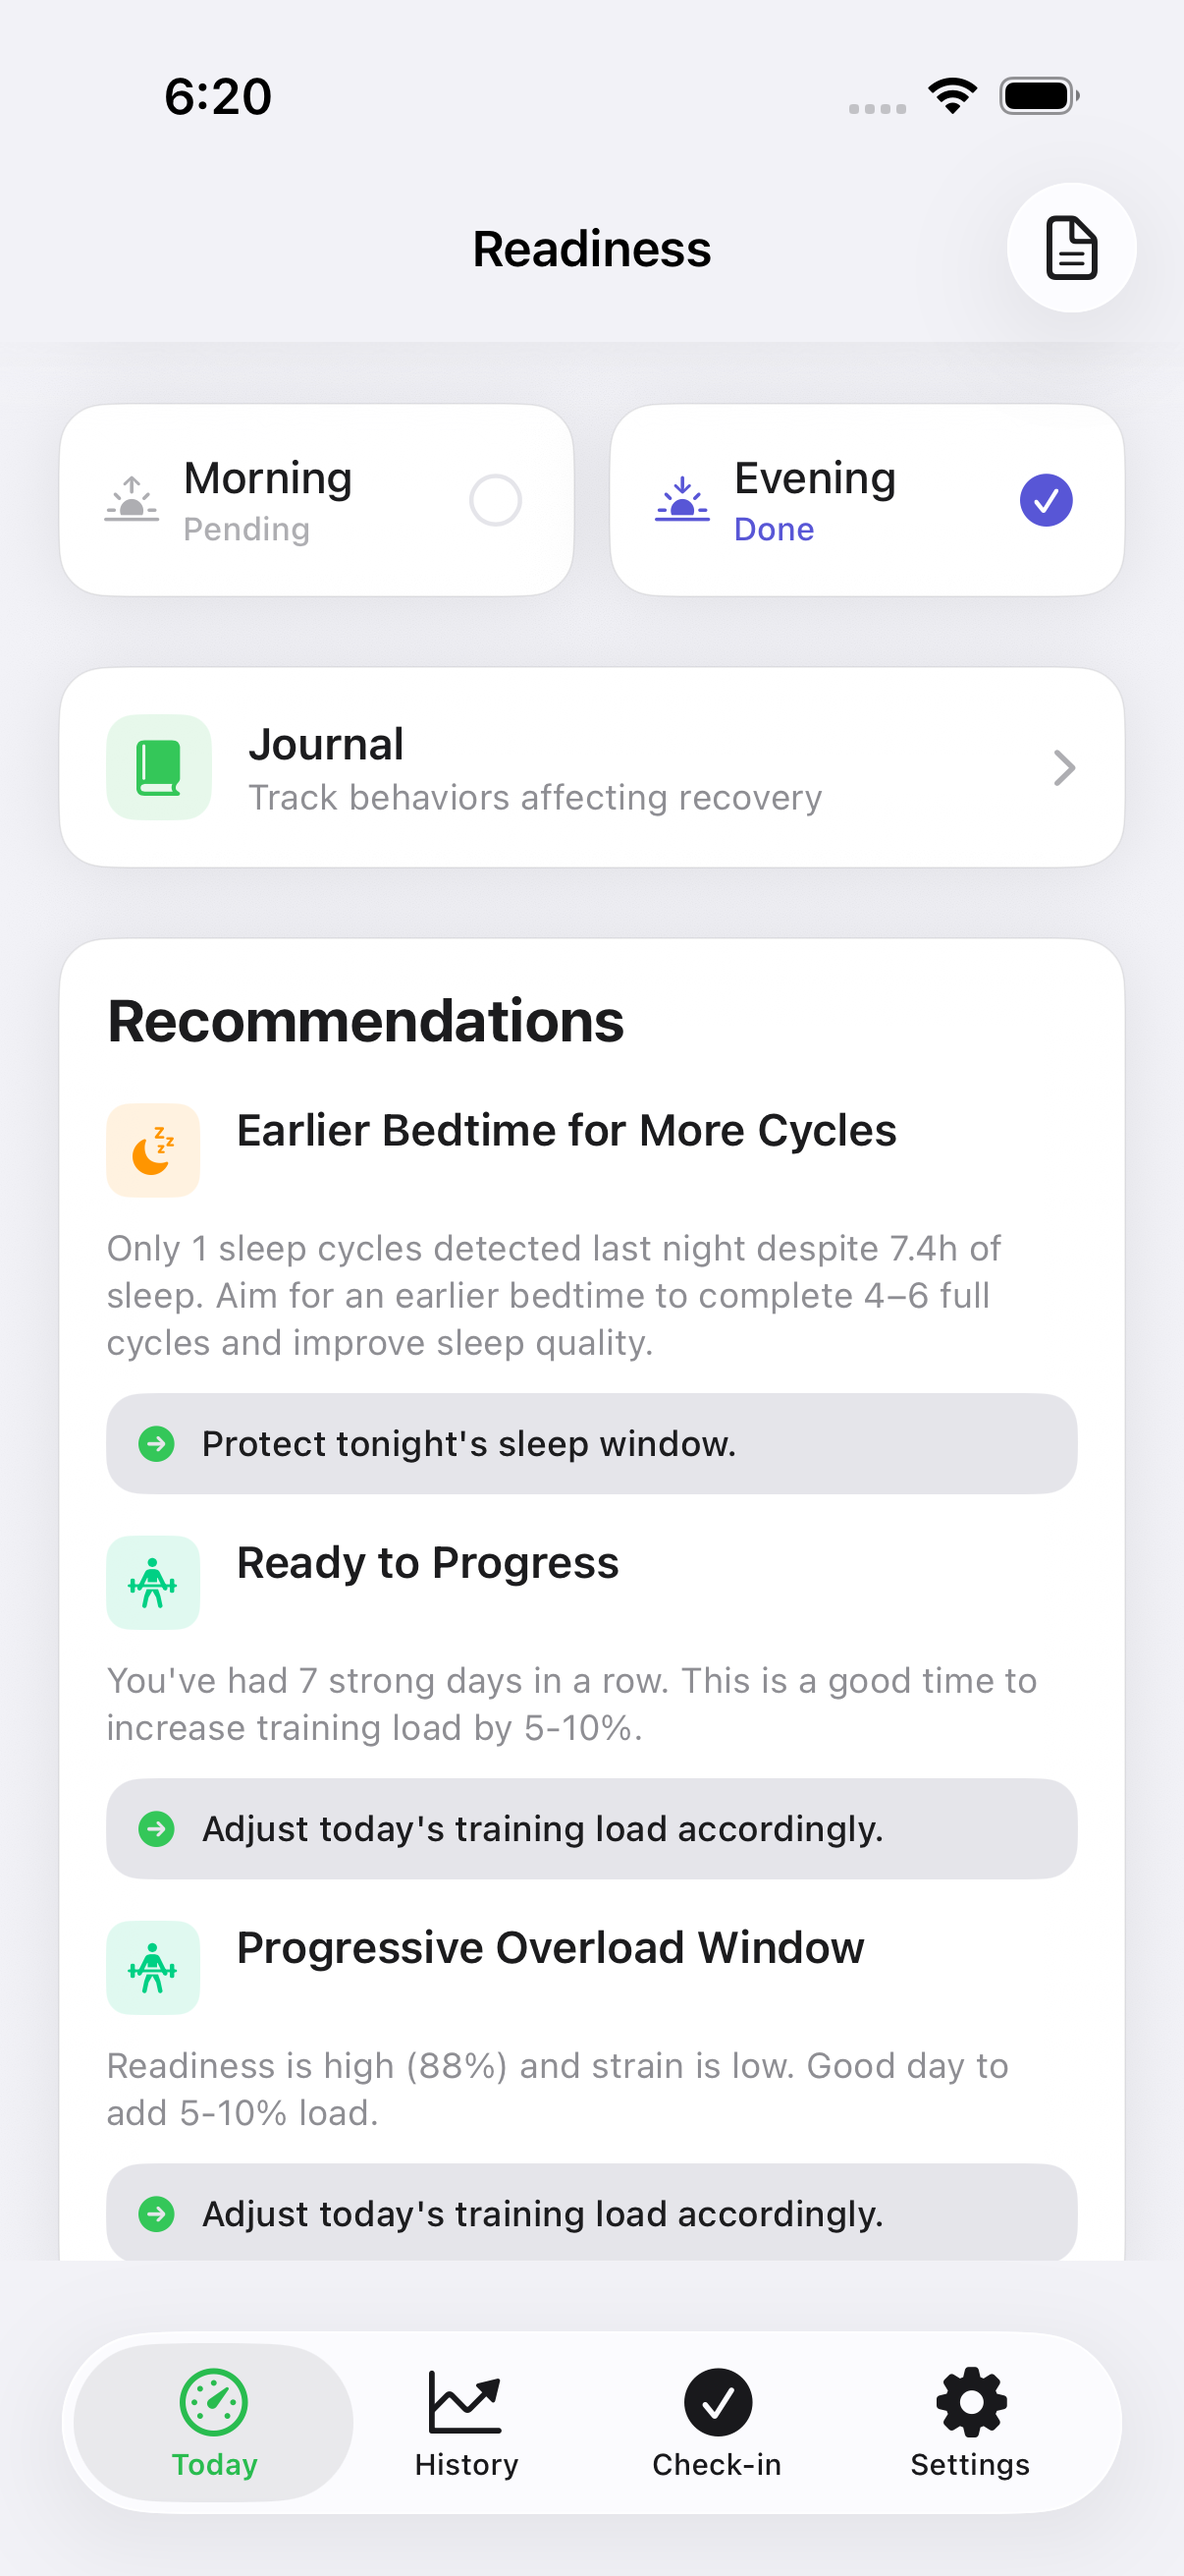
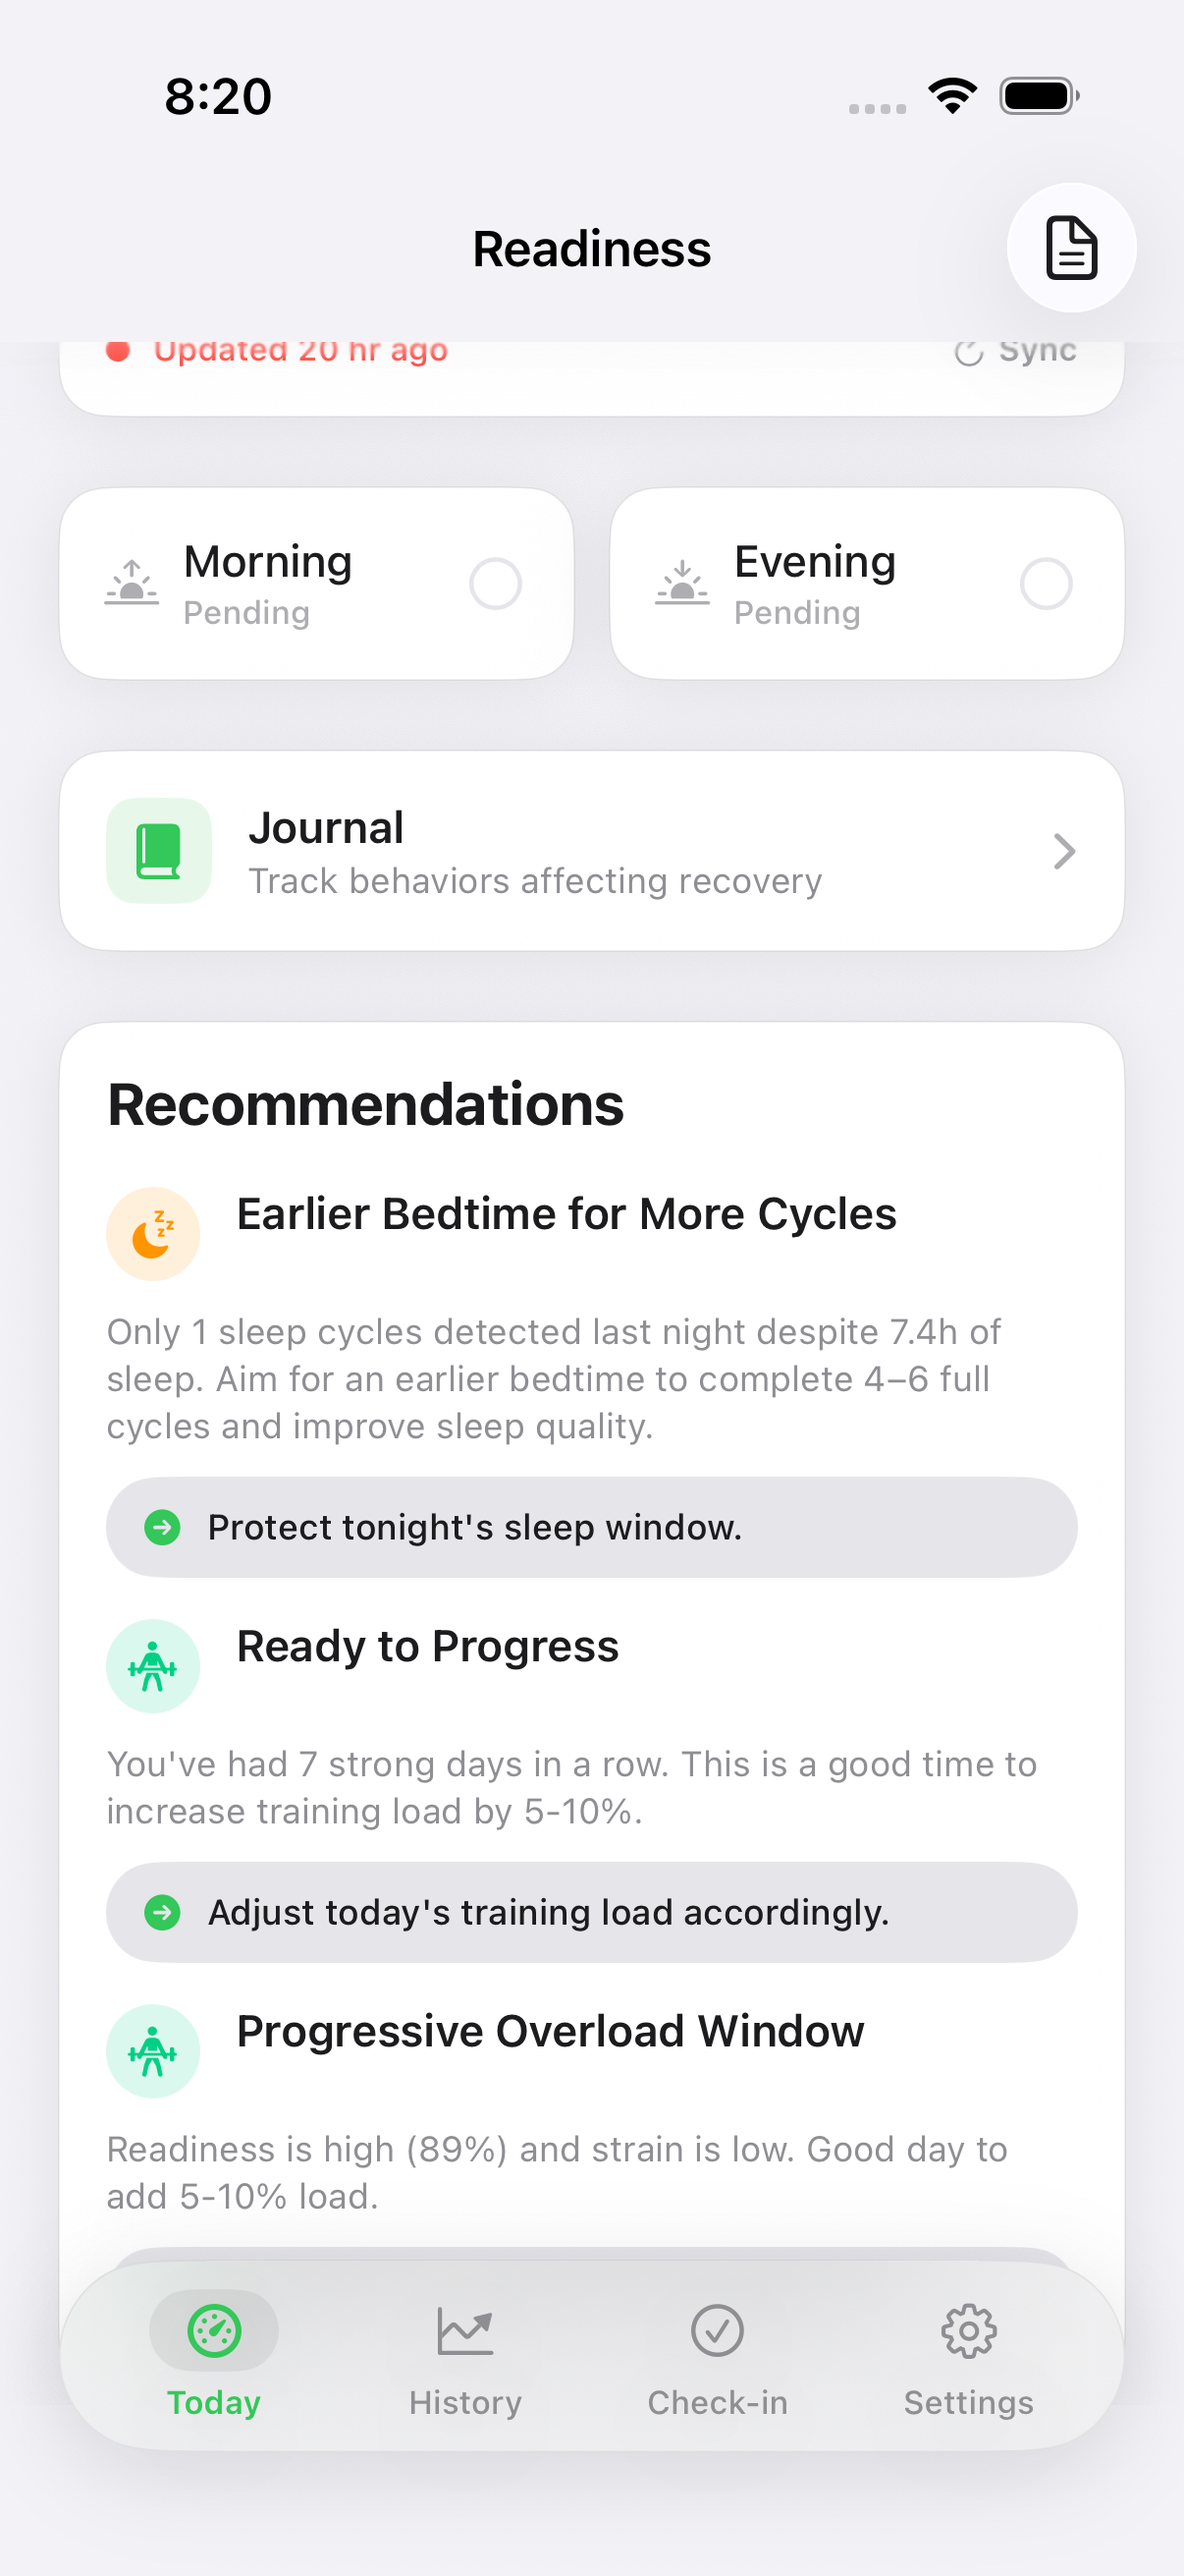
feat(today): Apple Fitness recommendation cards (Honest #59) (#77)

diff --git a/ReadinessTracker/Views/DashboardView.swift b/ReadinessTracker/Views/DashboardView.swift
@@ -354,7 +354,7 @@ struct DashboardView: View {
 
     // MARK: - Recommendations Section
     private func recommendationsSection(scores: DualReadinessScores) -> some View {
-        // WHOOP-style actionable cards: training rules first, coaching fill to 1–3.
+        // Apple Fitness–style actionable cards: training rules first, coaching fill to 1–3.
         let cards = AIRecommendationEngine.shared.morningActionableCards(for: selectedSource, limit: 3)
 
         return Group {
@@ -1055,7 +1055,7 @@ struct DashboardView: View {
 
 // MARK: - Supporting Views
 
-/// WHOOP-style morning recommendation: title, reason, concrete action cue.
+/// Apple Fitness–style morning recommendation: title, reason, capsule action cue.
 struct RecommendationActionCard: View {
     let card: ActionableRecommendation
 
@@ -1068,8 +1068,8 @@ struct RecommendationActionCard: View {
                     .font(.system(size: 14, weight: .semibold))
                     .foregroundStyle(tint)
                     .frame(width: 32, height: 32)
-                    .background(tint.opacity(0.12))
-                    .clipShape(RoundedRectangle(cornerRadius: 8, style: .continuous))
+                    .background(tint.opacity(0.14))
+                    .clipShape(Circle())
 
                 Text(card.title)
                     .font(.subheadline.weight(.semibold))
@@ -1094,10 +1094,11 @@ struct RecommendationActionCard: View {
                     .foregroundStyle(RTColor.primaryText)
                     .fixedSize(horizontal: false, vertical: true)
             }
-            .padding(10)
+            .padding(.horizontal, 12)
+            .padding(.vertical, 10)
             .frame(maxWidth: .infinity, alignment: .leading)
             .background(
-                RoundedRectangle(cornerRadius: AppleTheme.cornerRadiusMedium, style: .continuous)
+                Capsule(style: .continuous)
                     .fill(RTColor.surfaceHighlight)
             )
         }
